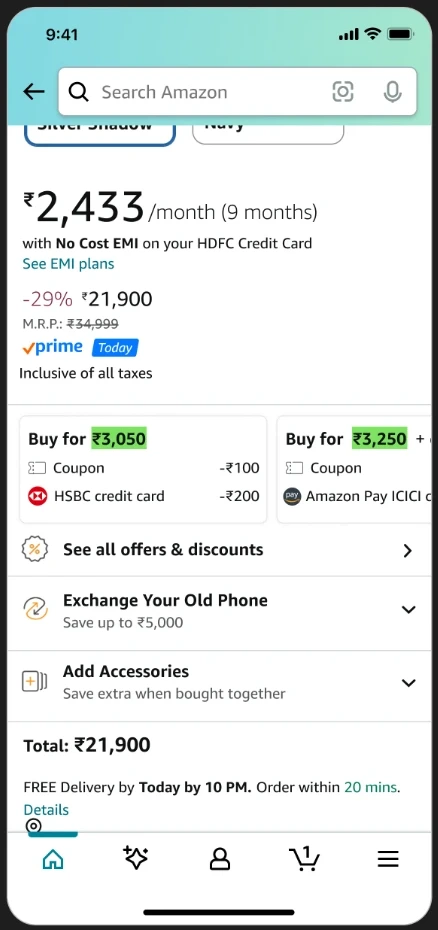
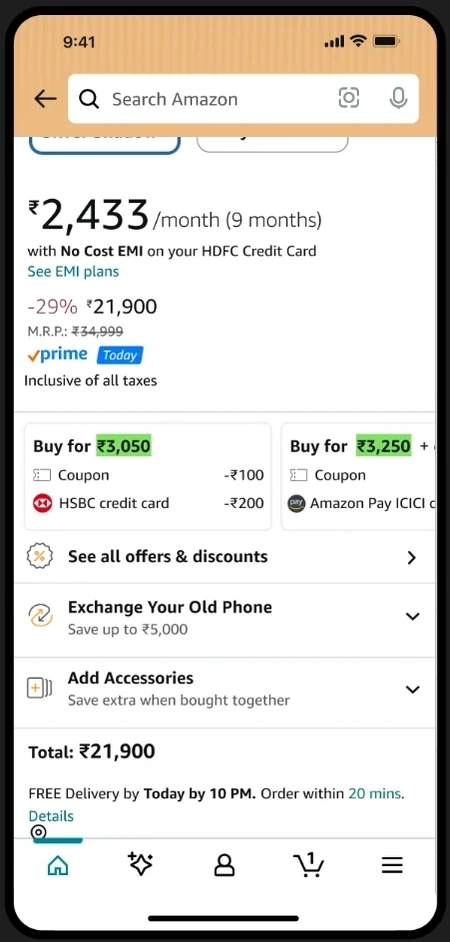
Value perception: same peach app header and frame on all four mocks
Rebuilds the 2023 and 2024 mocks in the 2026 frame and header, keeping
each version's own page content. Labels 2023 as the experience inherited
on joining the team.

Claude-Session: https://claude.ai/code/session_0148cmcCzJJyNgPkgSxbW31y

Changed region(s): [[0.0, 0.0, 1.0, 0.9978]]

diff --git a/value-perception.html b/value-perception.html
@@ -206,20 +206,20 @@
         <p class="cs-intro reveal">Each version kept what worked and fixed what the last one got wrong.</p>
 
         <div class="cs-strip reveal" aria-hidden="true">
-          <figure><img src="assets/work/value/pdp-v1.webp?v=2" alt="" loading="lazy"><figcaption>2023</figcaption></figure>
-          <figure><img src="assets/work/value/pdp-v2.webp" alt="" loading="lazy"><figcaption>2024</figcaption></figure>
+          <figure><img src="assets/work/value/pdp-v1.webp?v=3" alt="" loading="lazy"><figcaption>2023</figcaption></figure>
+          <figure><img src="assets/work/value/pdp-v2.webp?v=2" alt="" loading="lazy"><figcaption>2024</figcaption></figure>
           <figure><img src="assets/work/value/pdp-v3.webp" alt="" loading="lazy"><figcaption>2026</figcaption></figure>
           <figure><img src="assets/work/value/pdp-v4.webp" alt="" loading="lazy"><figcaption>2027 · Concept</figcaption></figure>
         </div>
 
         <article class="cs-version">
           <figure class="cs-phone reveal">
-            <img src="assets/work/value/pdp-v1.webp?v=2" loading="lazy" width="390" height="836"
+            <img src="assets/work/value/pdp-v1.webp?v=3" loading="lazy" width="450" height="942"
                  alt="2023 product page: an Offers carousel of No Cost EMI, Bank Offer and Cashback cards, a coupon row, exchange, accessories and protection plans, with a total of ₹23,999">
           </figure>
           <div class="cs-copy reveal">
-            <p class="cs-step">01 · 2023</p>
-            <h3>Where we started: offers to decode</h3>
+            <p class="cs-step">01 · 2023 · When I joined</p>
+            <h3>What I inherited: offers to decode</h3>
             <ul>
               <li>Savings spread across about six different formats.</li>
               <li>Offers written as conditions, not prices.</li>
@@ -231,7 +231,7 @@
 
         <article class="cs-version">
           <figure class="cs-phone reveal">
-            <img src="assets/work/value/pdp-v2.webp" loading="lazy" width="438" height="930"
+            <img src="assets/work/value/pdp-v2.webp?v=2" loading="lazy" width="450" height="942"
                  alt="2024 product page: offer combinations shown as cards labelled ‘Buy for’ a price, with a single ‘See all offers &amp; discounts’ row">
           </figure>
           <div class="cs-copy reveal">
